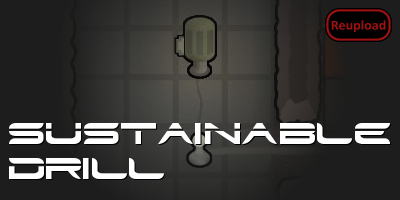
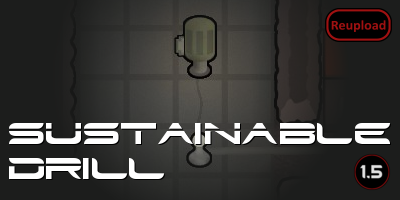
Mod updated for 1.5 and passed autotests

Changed region(s): [[0.87, 0.78, 0.99, 0.96]]

diff --git a/README.md b/README.md
@@ -26,11 +26,13 @@ This is loosely based on TheUbie's deep core miner mod, but pulls resources at a
 
 -  See if the the error persists if you just have this mod and its requirements active.
 -  If not, try adding your other mods until it happens again.
--  Post your error-log using https://steamcommunity.com/workshop/filedetails/?id=818773962]HugsLib and command Ctrl+F12
+-  Post your error-log using https://steamcommunity.com/workshop/filedetails/?id=818773962]HugsLib or the standalone https://steamcommunity.com/sharedfiles/filedetails/?id=2873415404]Uploader and command Ctrl+F12
 -  For best support, please use the Discord-channel for error-reporting.
 -  Do not report errors by making a discussion-thread, I get no notification of that.
 -  If you have the solution for a problem, please post it to the GitHub repository.
+-  Use https://github.com/RimSort/RimSort/releases/latest]RimSort to sort your mods
 
 
 
+https://steamcommunity.com/sharedfiles/filedetails/changelog/2584850307]![Image](https://img.shields.io/github/v/release/emipa606/SustainableDrill?label=latest%20version&style=plastic&color=9f1111&labelColor=black)
 
